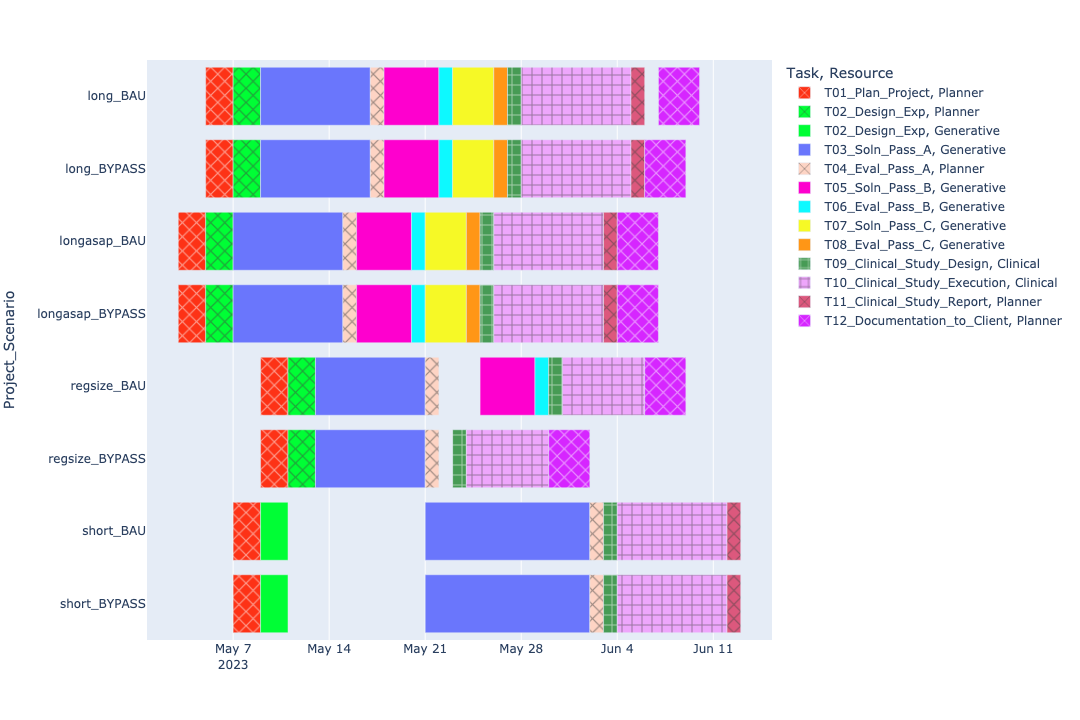
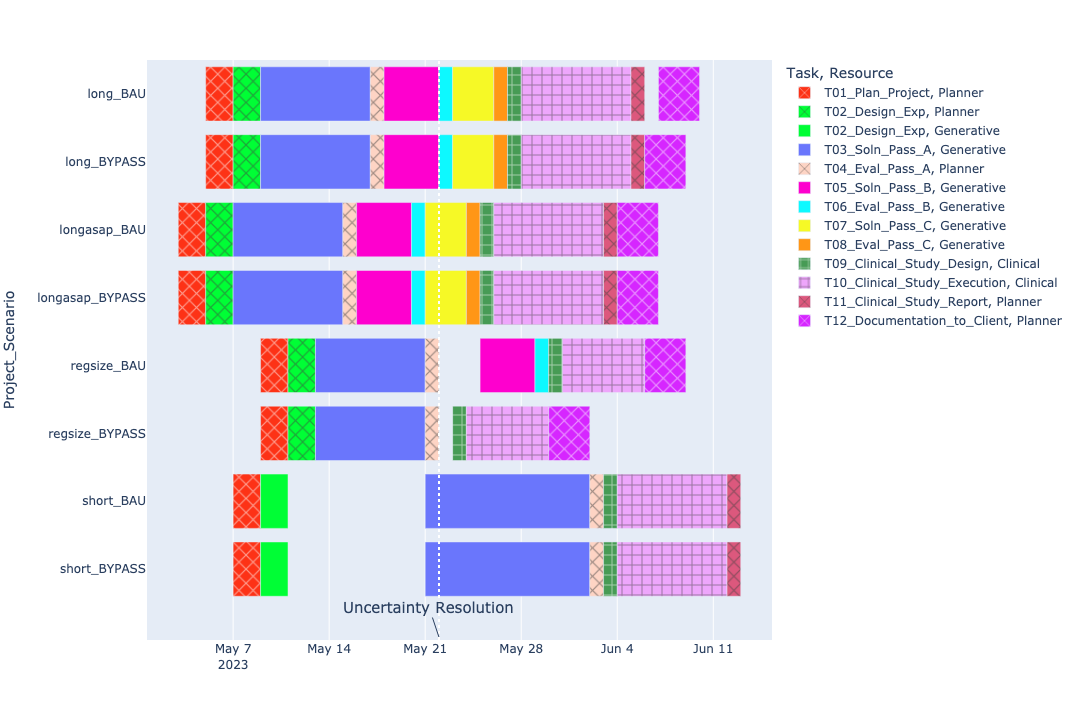
add stochastic prog example

diff --git a/scheduling/stoch_duration_v0.py b/scheduling/stoch_duration_v0.py
@@ -50,6 +50,16 @@ class Model2P(object):
         self.project_reqs.reset_index().to_markdown(repfile, index=False)        
         print("\n\n### Resource Attributes\n", file=repfile)
         self.resource_attrs.to_markdown(repfile)
+        print("\n\n### Stochastic Attributes\n", file=repfile)
+        print("\nBypass Tasks:", file=repfile)
+        for tp in model_input["stoch_task"]['bypass']:
+            print(*tp, file=repfile)
+        print("\nGiven Info After End Of", file=repfile, end=" ")
+        print(model_input["stoch_task"]['uncertainty_resolves_after']['project'], file=repfile, end=" ")
+        print(model_input["stoch_task"]['uncertainty_resolves_after']['task'], file=repfile)
+        print("\nWith Probabilities\n", file=repfile)
+        for event, prob in self.prob.items():
+            print("Event {:>8} -> Prob {:.1%}".format(event, prob), file=repfile)
         # Set Parameters
         self.datetime_0 = datetime.strptime(model_input["date0_str"], "%Y-%m-%d").date()
         self.get_date = lambda d: self.datetime_0 + timedelta(days=d)
@@ -184,10 +194,6 @@ class Model2P(object):
         self.solver.parameters.max_time_in_seconds = max_time
         self.status = self.solver.Solve(self.model)
         print(self.solver.ResponseStats())
-        print(self.solver.Value(self.urt))
-        for bau_tstruct, bypass_tstruct in zip(self.task_times["BAU",'short'], self.task_times["BYPASS",'short']):
-            print(bau_tstruct.start, self.solver.Value(bau_tstruct.start), bypass_tstruct.start, self.solver.Value(bypass_tstruct.start))
-            print(bau_tstruct.end, self.solver.Value(bau_tstruct.end), bypass_tstruct.end, self.solver.Value(bypass_tstruct.end))
 
     def collect_results(self):
         out = "\n"*3
@@ -219,6 +225,11 @@ class Model2P(object):
                 color_discrete_sequence=px.colors.qualitative.Light24
             )
             fig.update_yaxes(categoryorder="category descending")
+            urt = self.get_date(self.solver.Value(self.urt))
+            fig.add_vline(x=urt, line_dash="dot", line_color="white")
+            fig.add_annotation(
+                dict(x=urt,y=-1.0,text="Uncertainty Resolution",xanchor='center',font=dict(size=15))
+                )
             filename = self.report_path.format("{}_timetable.png".format(self.name))
             pio.write_image(fig, filename, width=1080, height=720)
 
@@ -241,6 +252,10 @@ class Model2P(object):
             earliness, tardiness = self.project_completion[scenario, project]
             self.makespan[scenario] = max(self.makespan[scenario], proj_end)
             out += fmt.format(scenario, project, proj_end, self.solver.Value(earliness), self.solver.Value(tardiness))
+
+        out += "\n\n### Time Uncertainty Is Resolved\n\n"
+        out +=  str(self.get_date(self.solver.Value(self.urt)))
+        out +=  " (Or {} Days After Time 0)\n".format(self.solver.Value(self.urt))
         return out
     
     def resource_report(self):
@@ -262,11 +277,16 @@ class Model2P(object):
         utilization.index = [self.get_date(t).strftime("%b %d") for t in utilization.index]
         fig, axs = plt.subplots(len(self.resources), len(self.prob), figsize=(16,12), sharex=True)
         fig.autofmt_xdate(rotation=90)
+        urt = self.solver.Value(self.urt)
         for i, rname in enumerate(self.resources):
             for j, scenario in enumerate(self.prob.keys()):
                 utilization.loc[:,(scenario, rname,'state1')] -= utilization.loc[:,(scenario, rname,'state0')]
                 ttl = "{}_{}".format(scenario, rname)
                 utilization[scenario][rname].plot.bar(stacked=True, title=ttl, width=1, grid=True, color=color_dict, ax=axs[i,j])
+                yannot = utilization[scenario][rname].sum(1).max()
+                axs[i,j].axvline(urt, color='red', linestyle=':', lw=2)
+                axs[i,j].text(urt, yannot, "Uncertainty\nResolution", ha='center', va='top', 
+                              bbox=dict(facecolor='white',boxstyle='square',edgecolor='red',pad=0.2))
         return fig
     
     def report_results(self):

diff --git a/README.md b/README.md
@@ -17,10 +17,19 @@ Of particular interest is the cpModel solver for Contraint Programming found in 
 
 - [Job Shop Scheduling (Constraint Programming)](SimpleJobShopScheduling.ipynb)
 
-- [One Period Planner for R&D Project Scheduling (Constraint Programming)](examples/schedV2/one_period_v2_example_report.md)
+- [One Period Planner for R&D Project Scheduling](examples/schedV2/one_period_v2_example_report.md)
   - [Code](scheduling/one_period_v2.py)
   - Leverages AddCumulative Constraint to set Capacity Limit over Project Horizon.
-  - **Minimize**: Resource Cost + Tardiness Penalty - Early Completion Bonus
+  - **Minimizes**: Resource Cost + Tardiness Penalty - Early Completion Bonus
   - Resources May Compete for Tasks.
   - Expensive Resources Might Finish Tasks Earlier Than Inexpensive Ones.
-  - Input Data in .csv Format.
+  - Input Data In .csv Format for Larger Problems.
+
+- [Planner for R&D Project Scheduling With One Uncertain Task Completion Time](examples/schedV2/stoch_duration_example_V0_report.md)
+  - [Code](scheduling/stoch_duration_v0.py)
+  - Adds Stochastic Programming Constraints.
+  - Leverages AddCumulative Constraint to set Capacity Limit over Project Horizon.
+  - **Minimizes**: Resource Cost + Tardiness Penalty - Early Completion Bonus
+  - Resources May Compete for Tasks.
+  - Expensive Resources Might Finish Tasks Earlier Than Inexpensive Ones.
+  - Input Data In .csv Format for Larger Problems.

diff --git a/examples/schedV2/stoch_duration_example_V0_report.md b/examples/schedV2/stoch_duration_example_V0_report.md
@@ -123,6 +123,21 @@
 | Generative |          5 |            700 |
 | Clinical   |          3 |            800 |
 
+### Stochastic Attributes
+
+
+Bypass Tasks:
+regsize T05_Soln_Pass_B
+regsize T06_Eval_Pass_B
+
+Given Info After End Of regsize T04_Eval_Pass_A
+
+With Probabilities
+
+Event      BAU -> Prob 60.0%
+Event   BYPASS -> Prob 40.0%
+
+
 # Optimization Results
 
 
@@ -145,6 +160,11 @@
 | BYPASS     | long       |         39 |      1 |      0 |
 | BYPASS     | regsize    |         32 |      6 |      0 |
 | BYPASS     | short      |         43 |      0 |      1 |
+
+
+### Time Uncertainty Is Resolved
+
+2023-05-22 (Or 21 Days After Time 0)
 
 
 
